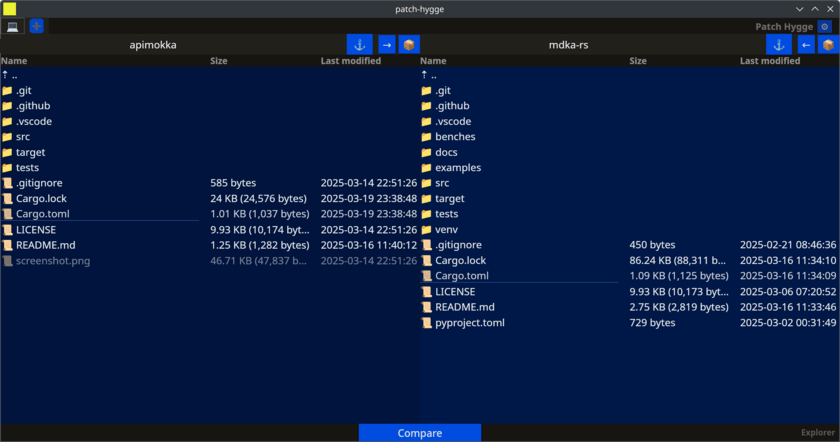
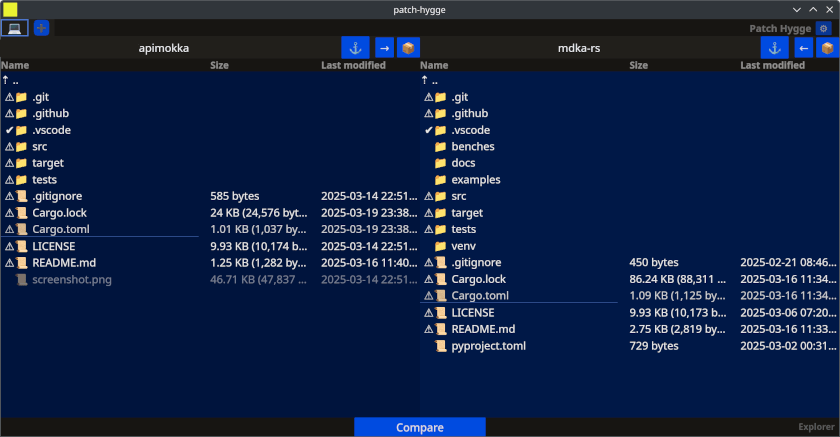
fix #78 digest comparison

diff --git a/src/components/explorer/Explorer.svelte b/src/components/explorer/Explorer.svelte
@@ -12,9 +12,9 @@
     listDirResponse: ListDirReponse | null
   }
 
-  interface CompareSetItemSource {
-    filename: string
-    binaryComparisonOnly: boolean
+  interface DigestDiff {
+    name: string
+    equal: boolean
   }
 
   const { compareSetOnSelected }: { compareSetOnSelected: (compareSet: CompareSet) => void } =
@@ -28,6 +28,9 @@
   let newSelectedFile: string = $state('')
   let newBinaryComparisonOnly: boolean = $state(false)
 
+  let dirDigestDiffs: DigestDiff[] = $state([])
+  let fileDigestDiffs: DigestDiff[] = $state([])
+
   const compareButtonLabel: string = $derived(
     oldBinaryComparisonOnly || newBinaryComparisonOnly
       ? BINARY_MODE_COMPARE_BUTTON_LABEL
@@ -37,6 +40,14 @@
   const compareOnClickEnabled: boolean = $derived(
     0 < oldSelectedFile.length && 0 < newSelectedFile.length
   )
+
+  $effect(() => {
+    if (oldExplorerPane.listDirResponse !== null) setDigestDiffs()
+  })
+
+  $effect(() => {
+    if (newExplorerPane.listDirResponse !== null) setDigestDiffs()
+  })
 
   const lastSlashIndex = (dirpath: string): number => {
     return dirpath.lastIndexOf('/')
@@ -111,7 +122,7 @@
     return dir === '/' || dir.endsWith(':\\')
   }
 
-  const copyCurrentDir = (oldOrNew: OldOrNew) => {
+  const syncDir = (oldOrNew: OldOrNew) => {
     if (oldOrNew === 'old') {
       newExplorerPane.listDirResponse = oldExplorerPane.listDirResponse
     } else {
@@ -163,6 +174,51 @@
         return
       })
   }
+
+  const setDigestDiffs = () => {
+    if (oldExplorerPane.listDirResponse === null || newExplorerPane.listDirResponse === null) return
+
+    fileDigestDiffs = []
+    dirDigestDiffs = []
+    if (oldExplorerPane.listDirResponse.currentDir === newExplorerPane.listDirResponse.currentDir)
+      return
+
+    let filenames = oldExplorerPane.listDirResponse.files
+      .filter((x) => newExplorerPane.listDirResponse!.files.some((y) => y.name === x.name))
+      .map((x) => x.name)
+    filenames.forEach((x) => {
+      invoke('file_digest_diff', {
+        filename: x,
+        oldDir: oldExplorerPane.listDirResponse!.currentDir,
+        newDir: newExplorerPane.listDirResponse!.currentDir,
+      }).then((res: unknown) => {
+        fileDigestDiffs.push({ name: x, equal: res as boolean } as DigestDiff)
+      })
+    })
+
+    let dirnames = oldExplorerPane.listDirResponse.dirs.filter((x) =>
+      newExplorerPane.listDirResponse!.dirs.some((y) => y === x)
+    )
+    dirnames.forEach((x) => {
+      invoke('dir_digest_diff', {
+        dirname: x,
+        oldDir: oldExplorerPane.listDirResponse!.currentDir,
+        newDir: newExplorerPane.listDirResponse!.currentDir,
+      }).then((res: unknown) => {
+        dirDigestDiffs.push({ name: x, equal: res as boolean } as DigestDiff)
+      })
+    })
+  }
+
+  const digestDiffClass = (name: string, isDir: boolean): string => {
+    let found = isDir
+      ? dirDigestDiffs.find((x) => x.name === name)
+      : fileDigestDiffs.find((x) => x.name === name)
+    if (found) {
+      return found.equal ? 'digest-equal' : 'digest-different'
+    }
+    return ''
+  }
 </script>
 
 <div class="content explorer-panes">
@@ -170,16 +226,16 @@
     {#if pane.listDirResponse !== null}
       <div class={`explorer-pane ${pane.oldOrNew}`}>
         <div class="current-dir">
-          <h3 class="dirpath">
+          <h3 class="path">
             <div class="parent-dirs">{parentDirsPath(pane.listDirResponse.currentDir)}</div>
-            <div class="dirname">{dirname(pane.listDirResponse.currentDir)}</div>
+            <div class="name">{dirname(pane.listDirResponse.currentDir)}</div>
           </h3>
           <div>
             <Tooltip position="top" messages={T('Select dir dialog')}>
               <button class="select-dir" onclick={() => selectDir(pane.oldOrNew)}>⚓</button>
             </Tooltip>
             <Tooltip position="top" messages={T('Sync dir pos')}>
-              <button class="sync-dir" onclick={() => copyCurrentDir(pane.oldOrNew)}
+              <button class="sync-dir" onclick={() => syncDir(pane.oldOrNew)}
                 >{#if pane.oldOrNew === 'old'}→{:else}←{/if}</button
               >
             </Tooltip>
@@ -225,10 +281,11 @@
                 <div
                   role="button"
                   tabindex="0"
+                  class={`name ${digestDiffClass(dir, true)}`}
                   ondblclick={() =>
                     changeDir(`${pane.listDirResponse!.currentDir}/${dir}`, pane.oldOrNew)}
                 >
-                  📁 {dir}
+                  {dir}
                 </div>
                 <div></div>
                 <div></div>
@@ -252,7 +309,9 @@
                       file.binaryComparisonOnly
                     )}
                 />
-                <div role="button" tabindex="0">📜 {file.name}</div>
+                <div role="button" tabindex="0" class={`name ${digestDiffClass(file.name, false)}`}>
+                  {file.name}
+                </div>
                 {#if file.humanReadableSize !== file.bytesSize}
                   <div>{file.humanReadableSize} ({file.bytesSize})</div>
                 {:else}
@@ -322,7 +381,7 @@
     align-items: center;
   }
 
-  .dirpath {
+  .current-dir .path {
     width: calc(100% - 3.2rem);
     margin-left: 0.2rem;
     display: inline-flex;
@@ -332,8 +391,8 @@
     font-weight: normal;
   }
 
-  /* Allows shrinking */
-  .parent-dirs {
+  /* allow shrinking */
+  .current-dir .path .parent-dirs {
     min-width: 0;
     flex-shrink: 1;
     white-space: nowrap;
@@ -341,8 +400,8 @@
     text-overflow: ellipsis;
   }
 
-  /* Prevent from truncated */
-  .dirname {
+  /* prevent from truncated */
+  .current-dir .path .name {
     flex-shrink: 0;
     margin-left: 0.02rem;
   }
@@ -413,6 +472,34 @@
   .dirs-files label input[type='radio']:checked + div {
     border-bottom-width: 0.02rem;
     border-bottom-style: solid;
+  }
+
+  .dir .name::before,
+  .file .name::before {
+    width: 2.5em;
+    margin-right: 0.4rem;
+    display: inline-flex;
+    justify-content: flex-end;
+    gap: 0.2em;
+  }
+
+  .dir .name::before {
+    content: '📁';
+  }
+  .dir .name.digest-different::before {
+    content: '⚠📁';
+  }
+  .dir .name.digest-equal::before {
+    content: '✔📁';
+  }
+  .file .name::before {
+    content: '📜';
+  }
+  .file .name.digest-different::before {
+    content: '⚠📜';
+  }
+  .file .name.digest-equal::before {
+    content: '✔📜';
   }
 
   .file.binary-comparison-only {

diff --git a/src-tauri/src/core/diff.rs b/src-tauri/src/core/diff.rs
@@ -1,4 +1,9 @@
-use std::ffi::OsString;
+use std::{
+    ffi::OsString,
+    fs::{self, File},
+    io::{BufReader, Read},
+    path::{Path, PathBuf},
+};
 
 use similar::{DiffTag, TextDiff};
 
@@ -283,6 +288,20 @@ fn chars_diff(diff_index: usize, old_str: &str, new_str: &str) -> CharsDiffLines
     }
 }
 
+/// digest comparison around files
+pub fn file_digest_diff(filename: &str, old_dir: &str, new_dir: &str) -> Result<bool, String> {
+    let old_filepath = Path::new(old_dir).join(filename);
+    let new_filepath = Path::new(new_dir).join(filename);
+    filepaths_digest_diff(&old_filepath, &new_filepath)
+}
+
+/// digest comparison around directories
+pub fn dir_digest_diff(dirname: &str, old_dir: &str, new_dir: &str) -> Result<bool, String> {
+    let old_dirpath = Path::new(old_dir).join(dirname);
+    let new_dirpath = Path::new(new_dir).join(dirname);
+    dirpaths_digest_diff(&old_dirpath, &new_dirpath)
+}
+
 /// decide comparison mode
 pub fn binary_comparison_only(filepath: &str) -> bool {
     match validate_filepath(filepath) {
@@ -306,4 +325,114 @@ pub fn startup_compare_set_item(filepath: &Option<OsString>) -> CompareSetItem {
             binary_comparison_only: false,
         },
     }
+}
+
+/// digest comparison around file paths
+fn filepaths_digest_diff(old_filepath: &PathBuf, new_filepath: &PathBuf) -> Result<bool, String> {
+    let old_metadata = fs::metadata(old_filepath).expect("Failed to get file metadata on old");
+    let new_metadata = fs::metadata(new_filepath).expect("Failed to get file metadata on new");
+
+    // compare file size
+    if old_metadata.len() != new_metadata.len() {
+        return Ok(false);
+    }
+
+    // compare file bytes
+    let old_file = File::open(old_filepath).expect("Failed to open file on old");
+    let new_file = File::open(new_filepath).expect("Failed to open file on new");
+
+    let mut old_reader = BufReader::new(old_file);
+    let mut new_reader = BufReader::new(new_file);
+
+    // 8 KB buffer
+    const COMPARISON_UNIT_BUFFER_SIZE: usize = 8192;
+    let mut old_buffer = [0; COMPARISON_UNIT_BUFFER_SIZE];
+    let mut new_buffer = [0; COMPARISON_UNIT_BUFFER_SIZE];
+
+    loop {
+        let old_bytes = old_reader
+            .read(&mut old_buffer)
+            .expect("Failed to read buffer on old");
+        let new_bytes = new_reader
+            .read(&mut new_buffer)
+            .expect("Failed to read buffer on new");
+
+        if old_bytes != new_bytes {
+            return Ok(false);
+        }
+
+        if old_bytes == 0 {
+            // EOF reached in both files
+            break;
+        }
+
+        if old_buffer[..old_bytes] != new_buffer[..new_bytes] {
+            return Ok(false);
+        }
+    }
+
+    Ok(true)
+}
+
+/// digest comparison around directory paths
+fn dirpaths_digest_diff(old_dirpath: &PathBuf, new_dirpath: &PathBuf) -> Result<bool, String> {
+    let mut old_files = vec![];
+    let mut old_dirs = vec![];
+    let mut new_files = vec![];
+    let mut new_dirs = vec![];
+
+    let old_entries = fs::read_dir(old_dirpath).expect("Failed to read dir on old");
+    let new_entries = fs::read_dir(new_dirpath).expect("Failed to read dir on new");
+
+    for entry in old_entries {
+        let entry = entry.expect("Failed to get entry on old read dir");
+        let path = entry.path();
+        if path.is_file() {
+            old_files.push(path);
+        } else if path.is_dir() {
+            old_dirs.push(path);
+        }
+    }
+
+    for entry in new_entries {
+        let entry = entry.expect("Failed to get entry on new read dir");
+        let path = entry.path();
+        if path.is_file() {
+            new_files.push(path);
+        } else if path.is_dir() {
+            new_dirs.push(path);
+        }
+    }
+
+    old_files.sort();
+    old_dirs.sort();
+    new_files.sort();
+    new_dirs.sort();
+
+    // compare files
+    if old_files.len() != new_files.len() || old_dirs.len() != new_dirs.len() {
+        return Ok(false);
+    }
+
+    for (old_file, new_file) in old_files.iter().zip(new_files.iter()) {
+        if old_file.file_name() != new_file.file_name() {
+            return Ok(false);
+        }
+        if !filepaths_digest_diff(old_file, new_file).expect("Failed to compare files on read dir")
+        {
+            return Ok(false);
+        }
+    }
+
+    // compare directories recursively
+    for (subdir1, subdir2) in old_dirs.iter().zip(new_dirs.iter()) {
+        if subdir1.file_name() != subdir2.file_name() {
+            return Ok(false);
+        }
+        if !dirpaths_digest_diff(subdir1, subdir2)? {
+            return Ok(false);
+        }
+    }
+
+    Ok(true)
 }

diff --git a/src-tauri/src/core/handlers.rs b/src-tauri/src/core/handlers.rs
@@ -28,6 +28,16 @@ pub fn binary_comparison_only(filepath: &str) -> Result<bool, String> {
     Ok(diff::binary_comparison_only(filepath))
 }
 
+#[tauri::command]
+pub fn file_digest_diff(filename: &str, old_dir: &str, new_dir: &str) -> Result<bool, String> {
+    diff::file_digest_diff(filename, old_dir, new_dir)
+}
+
+#[tauri::command]
+pub fn dir_digest_diff(dirname: &str, old_dir: &str, new_dir: &str) -> Result<bool, String> {
+    diff::dir_digest_diff(dirname, old_dir, new_dir)
+}
+
 #[tauri::command(async)]
 pub async fn diff_filepaths(old: &str, new: &str) -> Result<DiffResponse, String> {
     let (old_read, new_read) = match filepaths_content(old, new) {

diff --git a/src-tauri/src/lib.rs b/src-tauri/src/lib.rs
@@ -3,8 +3,8 @@ use tauri::Manager;
 mod core;
 
 use core::handlers::{
-    binary_comparison_only, diff_chars, diff_filepaths, list_dir, open_with_file_manager, ready,
-    save,
+    binary_comparison_only, diff_chars, diff_filepaths, dir_digest_diff, file_digest_diff,
+    list_dir, open_with_file_manager, ready, save,
 };
 
 #[cfg_attr(mobile, tauri::mobile_entry_point)]
@@ -27,6 +27,8 @@ pub fn run() {
             binary_comparison_only,
             diff_filepaths,
             diff_chars,
+            dir_digest_diff,
+            file_digest_diff,
             list_dir,
             open_with_file_manager,
             ready,
